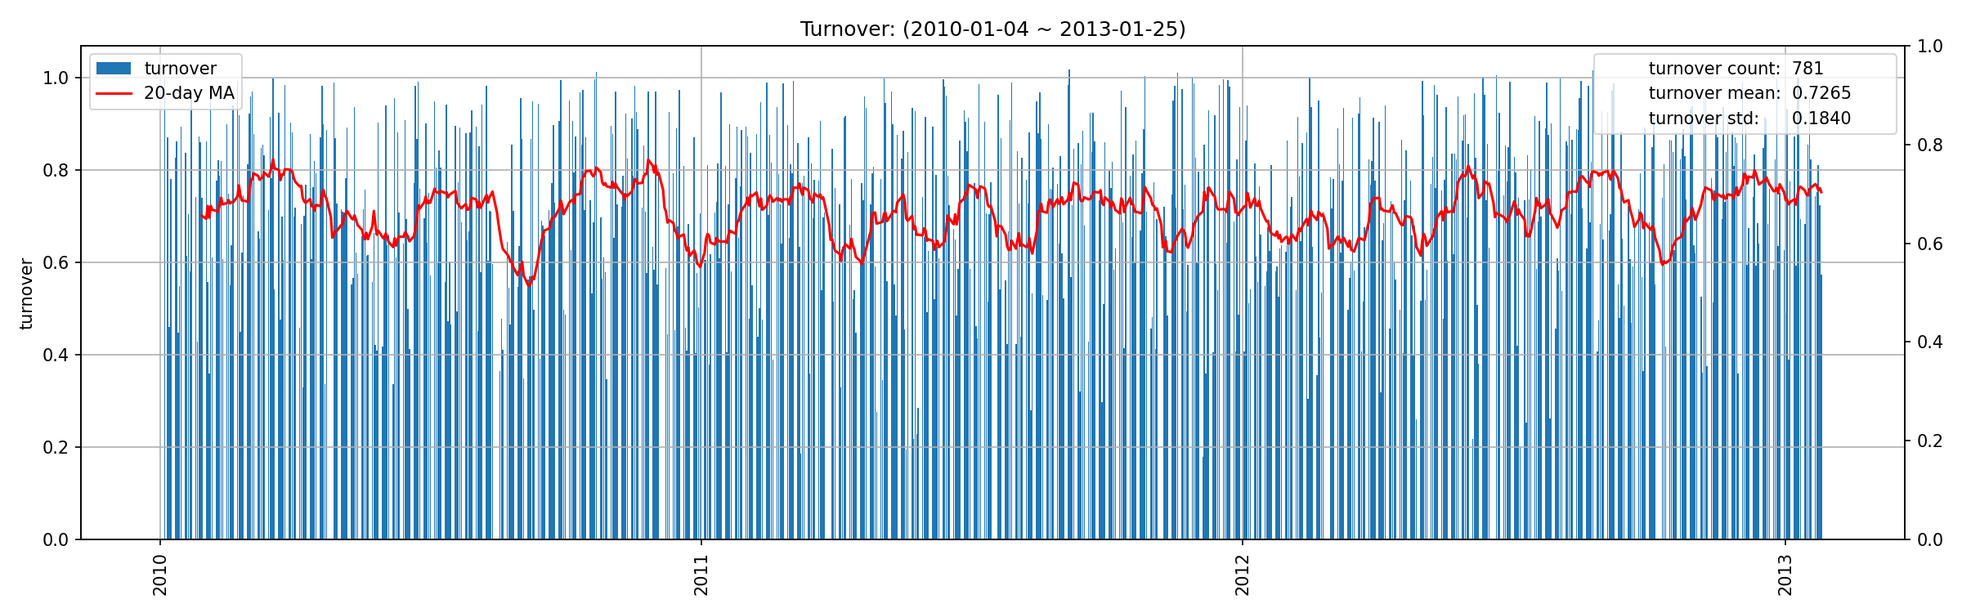
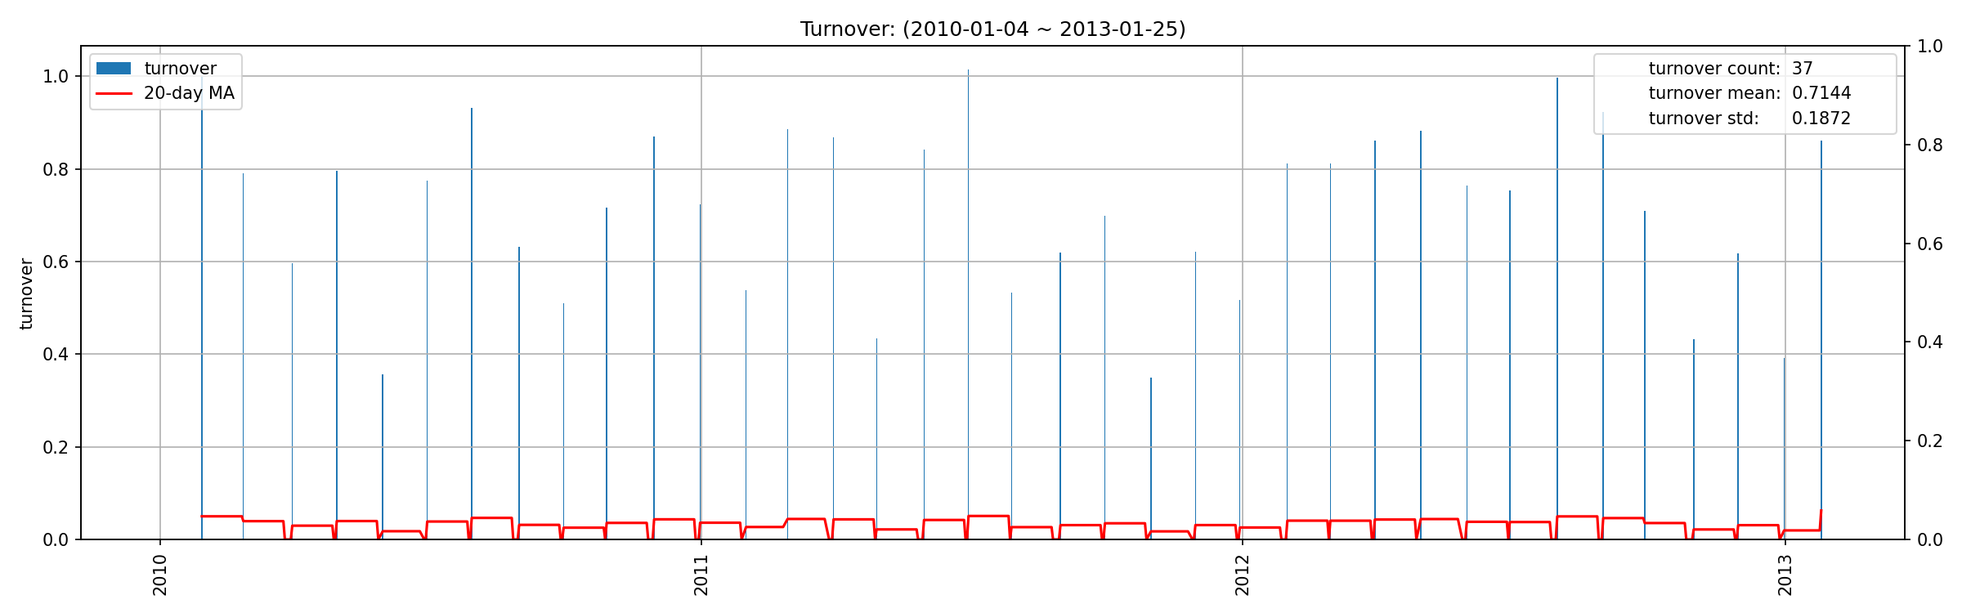
update

Changed region(s): [[0.0625, 0.092, 0.9375, 0.8893]]

diff --git a/demo/demo.py b/demo/demo.py
@@ -24,7 +24,7 @@ if __name__ == '__main__':
     trade_dates['year'] = trade_dates['datetime'].dt.year
     trade_dates['month'] = trade_dates['datetime'].dt.month
     position_dates = trade_dates.groupby(['year', 'month']).last()
-    position_dates = trade_dates['datetime'].tolist()
+    position_dates = position_dates['datetime'].tolist()
 
     # 需要计算的因子
     expression1 = '(ts_corr(rank(ts_delta(log(volume), 2)), rank(div(diff(close, open), open)), 6))'

diff --git a/factor_analysis_output/factor1_factor4/factor1_factor4_report.md b/factor_analysis_output/factor1_factor4/factor1_factor4_report.md
@@ -1,0 +1,100 @@
+# factor1_factor4 factor report
+## IC分析
+### 1D
+![IC分布](IC/factor1_factor4_1D.png)
+|         |   total |    2010 |   2011 |   2012 |    2013 |
+|:--------|--------:|--------:|-------:|-------:|--------:|
+| IC_mean |  0.0062 | -0.0005 | 0.0119 | 0.0104 | -0.0429 |
+| IC_std  |  0.3142 |  0.3152 | 0.3176 | 0.3101 |  0.3318 |
+| IC_IR   |  0.0196 | -0.0015 | 0.0375 | 0.0337 | -0.1293 |
+
+### 5D
+![IC分布](IC/factor1_factor4_5D.png)
+|         |   total |    2010 |   2011 |    2012 |    2013 |
+|:--------|--------:|--------:|-------:|--------:|--------:|
+| IC_mean | -0.0137 | -0.0189 | 0.0036 | -0.0239 | -0.0461 |
+| IC_std  |  0.3339 |  0.3275 | 0.3386 |  0.3303 |  0.4437 |
+| IC_IR   | -0.0410 | -0.0578 | 0.0106 | -0.0725 | -0.1040 |
+
+### 10D
+![IC分布](IC/factor1_factor4_10D.png)
+|         |   total |    2010 |    2011 |    2012 |    2013 |
+|:--------|--------:|--------:|--------:|--------:|--------:|
+| IC_mean | -0.0090 | -0.0160 | -0.0021 | -0.0068 | -0.0733 |
+| IC_std  |  0.3119 |  0.3175 |  0.2982 |  0.3209 |  0.3087 |
+| IC_IR   | -0.0289 | -0.0503 | -0.0070 | -0.0211 | -0.2374 |
+
+## 收益分析
+### 分层收益
+### 1D
+|               |   annual_return |   max_drawdown |   annual_sharpe |   annual_calmar |   win_rate |   avg_win_return |   avg_loss_return |   profit_loss_ratio |   annual_volatility |   annual_downside_deviation |   annual_sortino |
+|:--------------|----------------:|---------------:|----------------:|----------------:|-----------:|-----------------:|------------------:|--------------------:|--------------------:|----------------------------:|-----------------:|
+| group5(long)  |          0.1863 |         0.6694 |          0.6424 |          4.4167 |     0.5044 |           0.0432 |           -0.0391 |              1.1048 |              0.9476 |                      0.5832 |           1.0438 |
+| group1(short) |          0.1276 |         0.7279 |          0.5651 |          2.7828 |     0.4867 |           0.0435 |           -0.0373 |              1.1660 |              0.9024 |                      0.4670 |           1.0919 |
+| benchmark     |          0.0203 |         0.2899 |          0.6604 |          1.1093 |     0.4930 |           0.0708 |           -0.0622 |              1.1392 |              1.2968 |                      0.7104 |           1.2055 |
+| long_excess   |         -0.7608 |         0.9904 |         -0.1610 |        -12.1952 |     0.4930 |           0.0758 |           -0.0757 |              1.0019 |              1.5386 |                      0.9032 |          -0.2743 |
+| short_excess  |         -0.5865 |         0.9720 |          0.2255 |         -9.5776 |     0.5032 |           0.0763 |           -0.0745 |              1.0241 |              1.5370 |                      1.0249 |           0.3381 |
+| long_short    |         -0.5177 |         0.9781 |          0.0782 |         -8.4010 |     0.5070 |           0.0548 |           -0.0555 |              0.9864 |              1.2628 |                      0.9266 |           0.1066 |
+
+![分层净值](net_value/factor1_factor4_1D.png)
+### 5D
+|               |   annual_return |   max_drawdown |   annual_sharpe |   annual_calmar |   win_rate |   avg_win_return |   avg_loss_return |   profit_loss_ratio |   annual_volatility |   annual_downside_deviation |   annual_sortino |
+|:--------------|----------------:|---------------:|----------------:|----------------:|-----------:|-----------------:|------------------:|--------------------:|--------------------:|----------------------------:|-----------------:|
+| group5(long)  |          0.5599 |         0.3645 |          1.3134 |         24.3862 |     0.5248 |           0.0204 |           -0.0182 |              1.1233 |              0.3986 |                      0.2090 |           2.5046 |
+| group1(short) |          2.1524 |         0.2145 |          3.1164 |        159.2591 |     0.5618 |           0.0213 |           -0.0163 |              1.3132 |              0.3937 |                      0.1935 |           6.3425 |
+| benchmark     |          0.1389 |         0.1264 |          0.6206 |         17.4538 |     0.4879 |           0.0145 |           -0.0125 |              1.1570 |              0.2667 |                      0.1409 |           1.1748 |
+| long_excess   |          0.2870 |         0.4212 |          0.7758 |         10.8162 |     0.5159 |           0.0234 |           -0.0220 |              1.0632 |              0.4615 |                      0.2550 |           1.4041 |
+| short_excess  |         -0.6915 |         0.9768 |         -2.2616 |        -11.2378 |     0.4573 |           0.0205 |           -0.0251 |              0.8192 |              0.4694 |                      0.3383 |          -3.1380 |
+| long_short    |         -0.5735 |         0.9331 |         -1.2983 |         -9.7570 |     0.4752 |           0.0250 |           -0.0280 |              0.8944 |              0.5418 |                      0.3481 |          -2.0211 |
+
+![分层净值](net_value/factor1_factor4_5D.png)
+### 10D
+|               |   annual_return |   max_drawdown |   annual_sharpe |   annual_calmar |   win_rate |   avg_win_return |   avg_loss_return |   profit_loss_ratio |   annual_volatility |   annual_downside_deviation |   annual_sortino |
+|:--------------|----------------:|---------------:|----------------:|----------------:|-----------:|-----------------:|------------------:|--------------------:|--------------------:|----------------------------:|-----------------:|
+| group5(long)  |          0.2502 |         0.1926 |          1.0772 |         20.6246 |     0.5090 |           0.0119 |           -0.0103 |              1.1540 |              0.2323 |                      0.1339 |           1.8696 |
+| group1(short) |          0.8604 |         0.1408 |          2.7295 |         97.0250 |     0.5385 |           0.0127 |           -0.0092 |              1.3787 |              0.2380 |                      0.1206 |           5.3857 |
+| benchmark     |          0.0824 |         0.0940 |          0.6538 |         13.9123 |     0.4987 |           0.0074 |           -0.0066 |              1.1112 |              0.1350 |                      0.0720 |           1.2255 |
+| long_excess   |          0.1372 |         0.2158 |          0.6251 |         10.0875 |     0.5038 |           0.0132 |           -0.0121 |              1.0900 |              0.2592 |                      0.1489 |           1.0879 |
+| short_excess  |         -0.4494 |         0.8518 |         -2.1388 |         -8.3749 |     0.4705 |           0.0109 |           -0.0139 |              0.7847 |              0.2624 |                      0.2013 |          -2.7881 |
+| long_short    |         -0.3652 |         0.7582 |         -1.2080 |         -7.6468 |     0.4692 |           0.0148 |           -0.0160 |              0.9207 |              0.3305 |                      0.2367 |          -1.6868 |
+
+![分层净值](net_value/factor1_factor4_10D.png)
+### 因子加权日频收益
+|                 |   annual_return |   max_drawdown |   annual_sharpe |   annual_calmar |   win_rate |   avg_win_return |   avg_loss_return |   profit_loss_ratio |   annual_volatility |   annual_downside_deviation |   annual_sortino |
+|:----------------|----------------:|---------------:|----------------:|----------------:|-----------:|-----------------:|------------------:|--------------------:|--------------------:|----------------------------:|-----------------:|
+| factor_weighted |         -0.1665 |         0.5263 |         -0.0542 |         -5.0202 |     0.4962 |           0.0241 |           -0.0240 |              1.0052 |              0.5550 |                      0.3714 |          -0.0810 |
+| benchmark       |         -0.0041 |         0.1815 |          0.6409 |         -0.3591 |     0.4944 |           0.0704 |           -0.0623 |              1.1297 |              1.2946 |                      0.7106 |           1.1677 |
+| excess          |         -0.8523 |         0.9978 |         -0.5994 |        -13.5592 |     0.4856 |           0.0712 |           -0.0739 |              0.9642 |              1.4346 |                      0.8826 |          -0.9742 |
+
+![因子加权净值](net_value/factor1_factor4_factor_weighted.png)
+### 分位数(0.8, 1.0)收益
+|           |   annual_return |   max_drawdown |   annual_sharpe |   annual_calmar |   win_rate |   avg_win_return |   avg_loss_return |   profit_loss_ratio |   annual_volatility |   annual_downside_deviation |   annual_sortino |
+|:----------|----------------:|---------------:|----------------:|----------------:|-----------:|-----------------:|------------------:|--------------------:|--------------------:|----------------------------:|-----------------:|
+| quantile  |          1.1123 |         0.3298 |          1.3235 |         53.5382 |     0.5090 |           0.0376 |           -0.0304 |              1.2390 |              0.7871 |                      0.3965 |           2.6273 |
+| benchmark |         -0.0041 |         0.1815 |          0.6409 |         -0.3591 |     0.4944 |           0.0704 |           -0.0623 |              1.1297 |              1.2946 |                      0.7106 |           1.1677 |
+| excess    |         -0.5993 |         0.9585 |          0.1423 |         -9.9262 |     0.5144 |           0.0728 |           -0.0754 |              0.9659 |              1.4987 |                      0.8914 |           0.2393 |
+
+![分位数净值(0.8, 1.0)](net_value/factor1_factor4_quantile.png)
+## 换手率分析
+### 分层换手率
+![分层换手率分布](turnover/factor1_factor4_group.png)
+|         |   turnover_count |   turnover_mean |   turnover_std |
+|:--------|-----------------:|----------------:|---------------:|
+| group_1 |         774.0000 |          0.8243 |         0.2389 |
+| group_2 |         760.0000 |          0.8197 |         0.2402 |
+| group_3 |         769.0000 |          0.8251 |         0.2386 |
+| group_4 |         768.0000 |          0.8079 |         0.2434 |
+| group_5 |         775.0000 |          0.8252 |         0.2386 |
+
+### 因子加权持仓换手率
+![因子加权持仓换手率](turnover/factor1_factor4_factor_weighted.png)
+|    |   turnover_count |   turnover_mean |   turnover_std |
+|---:|-----------------:|----------------:|---------------:|
+|  0 |          37.0000 |          0.7459 |         0.1505 |
+
+### 分位数(0.8, 1.0)换手率
+![分位数换手率 (0.8, 1.0)](turnover/factor1_factor4_quantile.png)
+|    |   turnover_count |   turnover_mean |   turnover_std |
+|---:|-----------------:|----------------:|---------------:|
+|  0 |          37.0000 |          0.7867 |         0.2122 |
+

diff --git a/factor_analysis_output/factor1/factor1_report.md b/factor_analysis_output/factor1/factor1_report.md
@@ -62,17 +62,17 @@
 ### 因子加权日频收益
 |                 |   annual_return |   max_drawdown |   annual_sharpe |   annual_calmar |   win_rate |   avg_win_return |   avg_loss_return |   profit_loss_ratio |   annual_volatility |   annual_downside_deviation |   annual_sortino |
 |:----------------|----------------:|---------------:|----------------:|----------------:|-----------:|-----------------:|------------------:|--------------------:|--------------------:|----------------------------:|-----------------:|
-| factor_weighted |         -0.2130 |         0.6069 |         -0.2492 |         -5.5710 |     0.4900 |           0.0216 |           -0.0217 |              0.9955 |              0.4858 |                      0.3427 |          -0.3532 |
+| factor_weighted |         -0.2576 |         0.7249 |         -0.3624 |         -5.6421 |     0.4859 |           0.0217 |           -0.0220 |              0.9906 |              0.4877 |                      0.3751 |          -0.4712 |
 | benchmark       |         -0.0041 |         0.1815 |          0.6409 |         -0.3591 |     0.4944 |           0.0704 |           -0.0623 |              1.1297 |              1.2946 |                      0.7106 |           1.1677 |
-| excess          |         -0.8499 |         0.9980 |         -0.6983 |        -13.5178 |     0.4869 |           0.0674 |           -0.0713 |              0.9453 |              1.3617 |                      0.8201 |          -1.1596 |
+| excess          |         -0.8758 |         0.9989 |         -0.6947 |        -13.9183 |     0.4894 |           0.0714 |           -0.0762 |              0.9364 |              1.4491 |                      0.8998 |          -1.1188 |
 
 ![因子加权净值](net_value/factor1_factor_weighted.png)
 ### 分位数(0.8, 1.0)收益
 |           |   annual_return |   max_drawdown |   annual_sharpe |   annual_calmar |   win_rate |   avg_win_return |   avg_loss_return |   profit_loss_ratio |   annual_volatility |   annual_downside_deviation |   annual_sortino |
 |:----------|----------------:|---------------:|----------------:|----------------:|-----------:|-----------------:|------------------:|--------------------:|--------------------:|----------------------------:|-----------------:|
-| quantile  |          0.6076 |         0.4149 |          0.9879 |         23.2494 |     0.4791 |           0.0384 |           -0.0295 |              1.3025 |              0.7648 |                      0.3873 |           1.9508 |
+| quantile  |          0.3273 |         0.4777 |          0.7447 |         10.8771 |     0.5013 |           0.0358 |           -0.0314 |              1.1392 |              0.7493 |                      0.4544 |           1.2281 |
 | benchmark |         -0.0041 |         0.1815 |          0.6409 |         -0.3591 |     0.4944 |           0.0704 |           -0.0623 |              1.1297 |              1.2946 |                      0.7106 |           1.1677 |
-| excess    |         -0.6678 |         0.9799 |         -0.0510 |        -10.8182 |     0.4931 |           0.0719 |           -0.0705 |              1.0196 |              1.4351 |                      0.8435 |          -0.0868 |
+| excess    |         -0.7497 |         0.9912 |         -0.1823 |        -12.0070 |     0.4806 |           0.0757 |           -0.0721 |              1.0497 |              1.4871 |                      0.8908 |          -0.3042 |
 
 ![分位数净值(0.8, 1.0)](net_value/factor1_quantile.png)
 ## 换手率分析
@@ -90,11 +90,11 @@
 ![因子加权持仓换手率](turnover/factor1_factor_weighted.png)
 |    |   turnover_count |   turnover_mean |   turnover_std |
 |---:|-----------------:|----------------:|---------------:|
-|  0 |         781.0000 |          0.7265 |         0.1840 |
+|  0 |          37.0000 |          0.7144 |         0.1872 |
 
 ### 分位数(0.8, 1.0)换手率
 ![分位数换手率 (0.8, 1.0)](turnover/factor1_quantile.png)
 |    |   turnover_count |   turnover_mean |   turnover_std |
 |---:|-----------------:|----------------:|---------------:|
-|  0 |         789.0000 |             inf |            nan |
+|  0 |          36.0000 |          0.7676 |         0.2569 |
 

diff --git a/factor_analysis_output/factor2/factor2_report.md b/factor_analysis_output/factor2/factor2_report.md
@@ -62,17 +62,17 @@
 ### 因子加权日频收益
 |                 |   annual_return |   max_drawdown |   annual_sharpe |   annual_calmar |   win_rate |   avg_win_return |   avg_loss_return |   profit_loss_ratio |   annual_volatility |   annual_downside_deviation |   annual_sortino |
 |:----------------|----------------:|---------------:|----------------:|----------------:|-----------:|-----------------:|------------------:|--------------------:|--------------------:|----------------------------:|-----------------:|
-| factor_weighted |          0.0028 |         0.5951 |          0.2492 |          0.0747 |     0.5100 |           0.0217 |           -0.0216 |              1.0045 |              0.4858 |                      0.3471 |           0.3488 |
+| factor_weighted |          0.0609 |         0.5443 |          0.3624 |          1.7755 |     0.5141 |           0.0220 |           -0.0217 |              1.0095 |              0.4877 |                      0.3254 |           0.5432 |
 | benchmark       |         -0.0041 |         0.1815 |          0.6409 |         -0.3591 |     0.4944 |           0.0704 |           -0.0623 |              1.1297 |              1.2946 |                      0.7106 |           1.1677 |
-| excess          |         -0.8200 |         0.9961 |         -0.5047 |        -13.0693 |     0.5019 |           0.0685 |           -0.0746 |              0.9174 |              1.4037 |                      0.8551 |          -0.8286 |
+| excess          |         -0.7834 |         0.9929 |         -0.4965 |        -12.5247 |     0.4881 |           0.0661 |           -0.0681 |              0.9707 |              1.3148 |                      0.7868 |          -0.8297 |
 
 ![因子加权净值](net_value/factor2_factor_weighted.png)
 ### 分位数(0.8, 1.0)收益
 |           |   annual_return |   max_drawdown |   annual_sharpe |   annual_calmar |   win_rate |   avg_win_return |   avg_loss_return |   profit_loss_ratio |   annual_volatility |   annual_downside_deviation |   annual_sortino |
 |:----------|----------------:|---------------:|----------------:|----------------:|-----------:|-----------------:|------------------:|--------------------:|--------------------:|----------------------------:|-----------------:|
-| quantile  |          1.0202 |         0.4720 |          1.2687 |         34.3138 |     0.5146 |           0.0371 |           -0.0310 |              1.1967 |              0.7914 |                      0.4500 |           2.2310 |
+| quantile  |          0.8255 |         0.5511 |          1.1460 |         23.7775 |     0.5256 |           0.0359 |           -0.0322 |              1.1159 |              0.7749 |                      0.3979 |           2.2317 |
 | benchmark |         -0.0041 |         0.1815 |          0.6409 |         -0.3591 |     0.4944 |           0.0704 |           -0.0623 |              1.1297 |              1.2946 |                      0.7106 |           1.1677 |
-| excess    |         -0.5922 |         0.9692 |          0.1202 |         -9.7006 |     0.5019 |           0.0735 |           -0.0727 |              1.0116 |              1.4604 |                      0.8647 |           0.2030 |
+| excess    |         -0.6241 |         0.9647 |          0.0410 |        -10.2703 |     0.4844 |           0.0745 |           -0.0695 |              1.0716 |              1.4479 |                      0.8074 |           0.0735 |
 
 ![分位数净值(0.8, 1.0)](net_value/factor2_quantile.png)
 ## 换手率分析
@@ -90,11 +90,11 @@
 ![因子加权持仓换手率](turnover/factor2_factor_weighted.png)
 |    |   turnover_count |   turnover_mean |   turnover_std |
 |---:|-----------------:|----------------:|---------------:|
-|  0 |         781.0000 |          0.7265 |         0.1840 |
+|  0 |          37.0000 |          0.7144 |         0.1872 |
 
 ### 分位数(0.8, 1.0)换手率
 ![分位数换手率 (0.8, 1.0)](turnover/factor2_quantile.png)
 |    |   turnover_count |   turnover_mean |   turnover_std |
 |---:|-----------------:|----------------:|---------------:|
-|  0 |         786.0000 |             inf |            nan |
+|  0 |          37.0000 |          0.7281 |         0.2323 |
 

diff --git a/factor_analysis_output/factor3/factor3_report.md b/factor_analysis_output/factor3/factor3_report.md
@@ -62,17 +62,17 @@
 ### 因子加权日频收益
 |                 |   annual_return |   max_drawdown |   annual_sharpe |   annual_calmar |   win_rate |   avg_win_return |   avg_loss_return |   profit_loss_ratio |   annual_volatility |   annual_downside_deviation |   annual_sortino |
 |:----------------|----------------:|---------------:|----------------:|----------------:|-----------:|-----------------:|------------------:|--------------------:|--------------------:|----------------------------:|-----------------:|
-| factor_weighted |         -0.3161 |         0.7660 |         -0.5458 |         -6.5509 |     0.4799 |           0.0213 |           -0.0217 |              0.9831 |              0.4815 |                      0.3518 |          -0.7471 |
+| factor_weighted |         -0.2538 |         0.7042 |         -0.3268 |         -5.7214 |     0.4910 |           0.0220 |           -0.0226 |              0.9760 |              0.5048 |                      0.3672 |          -0.4493 |
 | benchmark       |         -0.0041 |         0.1815 |          0.6409 |         -0.3591 |     0.4944 |           0.0704 |           -0.0623 |              1.1297 |              1.2946 |                      0.7106 |           1.1677 |
-| excess          |         -0.8706 |         0.9987 |         -0.8013 |        -13.8383 |     0.4856 |           0.0669 |           -0.0715 |              0.9345 |              1.3639 |                      0.8376 |          -1.3047 |
+| excess          |         -0.8721 |         0.9988 |         -0.6913 |        -13.8608 |     0.4869 |           0.0711 |           -0.0752 |              0.9461 |              1.4391 |                      0.8907 |          -1.1170 |
 
 ![因子加权净值](net_value/factor3_factor_weighted.png)
 ### 分位数(0.8, 1.0)收益
 |           |   annual_return |   max_drawdown |   annual_sharpe |   annual_calmar |   win_rate |   avg_win_return |   avg_loss_return |   profit_loss_ratio |   annual_volatility |   annual_downside_deviation |   annual_sortino |
 |:----------|----------------:|---------------:|----------------:|----------------:|-----------:|-----------------:|------------------:|--------------------:|--------------------:|----------------------------:|-----------------:|
-| quantile  |         -0.0794 |         0.6001 |          0.2155 |         -2.1000 |     0.4702 |           0.0348 |           -0.0297 |              1.1697 |              0.6944 |                      0.3524 |           0.4247 |
+| quantile  |          0.4335 |         0.4119 |          0.8370 |         16.7040 |     0.4910 |           0.0383 |           -0.0317 |              1.2084 |              0.7846 |                      0.4306 |           1.5249 |
 | benchmark |         -0.0041 |         0.1815 |          0.6409 |         -0.3591 |     0.4944 |           0.0704 |           -0.0623 |              1.1297 |              1.2946 |                      0.7106 |           1.1677 |
-| excess    |         -0.8136 |         0.9968 |         -0.4811 |        -12.9566 |     0.4856 |           0.0705 |           -0.0718 |              0.9819 |              1.4132 |                      0.8093 |          -0.8401 |
+| excess    |         -0.7136 |         0.9864 |         -0.1173 |        -11.4845 |     0.4768 |           0.0758 |           -0.0704 |              1.0767 |              1.4684 |                      0.8624 |          -0.1997 |
 
 ![分位数净值(0.8, 1.0)](net_value/factor3_quantile.png)
 ## 换手率分析
@@ -90,11 +90,11 @@
 ![因子加权持仓换手率](turnover/factor3_factor_weighted.png)
 |    |   turnover_count |   turnover_mean |   turnover_std |
 |---:|-----------------:|----------------:|---------------:|
-|  0 |         781.0000 |          0.7185 |         0.1778 |
+|  0 |          37.0000 |          0.7198 |         0.1830 |
 
 ### 分位数(0.8, 1.0)换手率
 ![分位数换手率 (0.8, 1.0)](turnover/factor3_quantile.png)
 |    |   turnover_count |   turnover_mean |   turnover_std |
 |---:|-----------------:|----------------:|---------------:|
-|  0 |         791.0000 |             inf |            nan |
+|  0 |          37.0000 |          0.7023 |         0.2623 |
 

diff --git a/factor_analysis_output/factor4/factor4_report.md b/factor_analysis_output/factor4/factor4_report.md
@@ -62,17 +62,17 @@
 ### 因子加权日频收益
 |                 |   annual_return |   max_drawdown |   annual_sharpe |   annual_calmar |   win_rate |   avg_win_return |   avg_loss_return |   profit_loss_ratio |   annual_volatility |   annual_downside_deviation |   annual_sortino |
 |:----------------|----------------:|---------------:|----------------:|----------------:|-----------:|-----------------:|------------------:|--------------------:|--------------------:|----------------------------:|-----------------:|
-| factor_weighted |          0.1584 |         0.4106 |          0.5458 |          6.1230 |     0.5201 |           0.0217 |           -0.0213 |              1.0172 |              0.4815 |                      0.3288 |           0.7993 |
+| factor_weighted |          0.0374 |         0.5292 |          0.3268 |          1.1221 |     0.5090 |           0.0226 |           -0.0220 |              1.0246 |              0.5048 |                      0.3704 |           0.4454 |
 | benchmark       |         -0.0041 |         0.1815 |          0.6409 |         -0.3591 |     0.4944 |           0.0704 |           -0.0623 |              1.1297 |              1.2946 |                      0.7106 |           1.1677 |
-| excess          |         -0.7905 |         0.9938 |         -0.4051 |        -12.6264 |     0.5031 |           0.0686 |           -0.0739 |              0.9271 |              1.3987 |                      0.8480 |          -0.6682 |
+| excess          |         -0.7933 |         0.9936 |         -0.4965 |        -12.6753 |     0.5006 |           0.0654 |           -0.0709 |              0.9232 |              1.3385 |                      0.8112 |          -0.8192 |
 
 ![因子加权净值](net_value/factor4_factor_weighted.png)
 ### 分位数(0.8, 1.0)收益
 |           |   annual_return |   max_drawdown |   annual_sharpe |   annual_calmar |   win_rate |   avg_win_return |   avg_loss_return |   profit_loss_ratio |   annual_volatility |   annual_downside_deviation |   annual_sortino |
 |:----------|----------------:|---------------:|----------------:|----------------:|-----------:|-----------------:|------------------:|--------------------:|--------------------:|----------------------------:|-----------------:|
-| quantile  |          1.6182 |         0.3351 |          1.5935 |         76.6600 |     0.5095 |           0.0380 |           -0.0291 |              1.3058 |              0.7929 |                      0.4389 |           2.8786 |
+| quantile  |          0.6600 |         0.4809 |          1.0127 |         21.7868 |     0.4974 |           0.0379 |           -0.0309 |              1.2265 |              0.8055 |                      0.4272 |           1.9093 |
 | benchmark |         -0.0041 |         0.1815 |          0.6409 |         -0.3591 |     0.4944 |           0.0704 |           -0.0623 |              1.1297 |              1.2946 |                      0.7106 |           1.1677 |
-| excess    |         -0.4809 |         0.9142 |          0.2947 |         -8.3502 |     0.5119 |           0.0736 |           -0.0737 |              0.9993 |              1.4774 |                      0.8600 |           0.5062 |
+| excess    |         -0.6555 |         0.9711 |         -0.0089 |        -10.7154 |     0.4931 |           0.0731 |           -0.0712 |              1.0265 |              1.4531 |                      0.8341 |          -0.0156 |
 
 ![分位数净值(0.8, 1.0)](net_value/factor4_quantile.png)
 ## 换手率分析
@@ -90,11 +90,11 @@
 ![因子加权持仓换手率](turnover/factor4_factor_weighted.png)
 |    |   turnover_count |   turnover_mean |   turnover_std |
 |---:|-----------------:|----------------:|---------------:|
-|  0 |         781.0000 |          0.7185 |         0.1778 |
+|  0 |          37.0000 |          0.7198 |         0.1830 |
 
 ### 分位数(0.8, 1.0)换手率
 ![分位数换手率 (0.8, 1.0)](turnover/factor4_quantile.png)
 |    |   turnover_count |   turnover_mean |   turnover_std |
 |---:|-----------------:|----------------:|---------------:|
-|  0 |         794.0000 |             inf |            nan |
+|  0 |          37.0000 |          0.7725 |         0.2634 |
 

diff --git a/factor_analysis_output/factor5/factor5_report.md b/factor_analysis_output/factor5/factor5_report.md
@@ -62,17 +62,17 @@
 ### 因子加权日频收益
 |                 |   annual_return |   max_drawdown |   annual_sharpe |   annual_calmar |   win_rate |   avg_win_return |   avg_loss_return |   profit_loss_ratio |   annual_volatility |   annual_downside_deviation |   annual_sortino |
 |:----------------|----------------:|---------------:|----------------:|----------------:|-----------:|-----------------:|------------------:|--------------------:|--------------------:|----------------------------:|-----------------:|
-| factor_weighted |         -0.2130 |         0.6069 |         -0.2492 |         -5.5710 |     0.4900 |           0.0216 |           -0.0217 |              0.9955 |              0.4858 |                      0.3427 |          -0.3532 |
+| factor_weighted |         -0.2576 |         0.7249 |         -0.3624 |         -5.6421 |     0.4859 |           0.0217 |           -0.0220 |              0.9906 |              0.4877 |                      0.3751 |          -0.4712 |
 | benchmark       |         -0.0041 |         0.1815 |          0.6409 |         -0.3591 |     0.4944 |           0.0704 |           -0.0623 |              1.1297 |              1.2946 |                      0.7106 |           1.1677 |
-| excess          |         -0.8499 |         0.9980 |         -0.6983 |        -13.5178 |     0.4869 |           0.0674 |           -0.0713 |              0.9453 |              1.3617 |                      0.8201 |          -1.1596 |
+| excess          |         -0.8758 |         0.9989 |         -0.6947 |        -13.9183 |     0.4894 |           0.0714 |           -0.0762 |              0.9364 |              1.4491 |                      0.8998 |          -1.1188 |
 
 ![因子加权净值](net_value/factor5_factor_weighted.png)
 ### 分位数(0.8, 1.0)收益
 |           |   annual_return |   max_drawdown |   annual_sharpe |   annual_calmar |   win_rate |   avg_win_return |   avg_loss_return |   profit_loss_ratio |   annual_volatility |   annual_downside_deviation |   annual_sortino |
 |:----------|----------------:|---------------:|----------------:|----------------:|-----------:|-----------------:|------------------:|--------------------:|--------------------:|----------------------------:|-----------------:|
-| quantile  |          0.6076 |         0.4149 |          0.9879 |         23.2494 |     0.4791 |           0.0384 |           -0.0295 |              1.3025 |              0.7648 |                      0.3873 |           1.9508 |
+| quantile  |          0.3273 |         0.4777 |          0.7447 |         10.8771 |     0.5013 |           0.0358 |           -0.0314 |              1.1392 |              0.7493 |                      0.4544 |           1.2281 |
 | benchmark |         -0.0041 |         0.1815 |          0.6409 |         -0.3591 |     0.4944 |           0.0704 |           -0.0623 |              1.1297 |              1.2946 |                      0.7106 |           1.1677 |
-| excess    |         -0.6678 |         0.9799 |         -0.0510 |        -10.8182 |     0.4931 |           0.0719 |           -0.0705 |              1.0196 |              1.4351 |                      0.8435 |          -0.0868 |
+| excess    |         -0.7497 |         0.9912 |         -0.1823 |        -12.0070 |     0.4806 |           0.0757 |           -0.0721 |              1.0497 |              1.4871 |                      0.8908 |          -0.3042 |
 
 ![分位数净值(0.8, 1.0)](net_value/factor5_quantile.png)
 ## 换手率分析
@@ -90,11 +90,11 @@
 ![因子加权持仓换手率](turnover/factor5_factor_weighted.png)
 |    |   turnover_count |   turnover_mean |   turnover_std |
 |---:|-----------------:|----------------:|---------------:|
-|  0 |         781.0000 |          0.7265 |         0.1840 |
+|  0 |          37.0000 |          0.7144 |         0.1872 |
 
 ### 分位数(0.8, 1.0)换手率
 ![分位数换手率 (0.8, 1.0)](turnover/factor5_quantile.png)
 |    |   turnover_count |   turnover_mean |   turnover_std |
 |---:|-----------------:|----------------:|---------------:|
-|  0 |         789.0000 |             inf |            nan |
+|  0 |          36.0000 |          0.7676 |         0.2569 |
 

diff --git a/factor_analysis_output/factor6/factor6_report.md b/factor_analysis_output/factor6/factor6_report.md
@@ -62,17 +62,17 @@
 ### 因子加权日频收益
 |                 |   annual_return |   max_drawdown |   annual_sharpe |   annual_calmar |   win_rate |   avg_win_return |   avg_loss_return |   profit_loss_ratio |   annual_volatility |   annual_downside_deviation |   annual_sortino |
 |:----------------|----------------:|---------------:|----------------:|----------------:|-----------:|-----------------:|------------------:|--------------------:|--------------------:|----------------------------:|-----------------:|
-| factor_weighted |          0.0028 |         0.5951 |          0.2492 |          0.0747 |     0.5100 |           0.0217 |           -0.0216 |              1.0045 |              0.4858 |                      0.3471 |           0.3488 |
+| factor_weighted |          0.0609 |         0.5443 |          0.3624 |          1.7755 |     0.5141 |           0.0220 |           -0.0217 |              1.0095 |              0.4877 |                      0.3254 |           0.5432 |
 | benchmark       |         -0.0041 |         0.1815 |          0.6409 |         -0.3591 |     0.4944 |           0.0704 |           -0.0623 |              1.1297 |              1.2946 |                      0.7106 |           1.1677 |
-| excess          |         -0.8200 |         0.9961 |         -0.5047 |        -13.0693 |     0.5019 |           0.0685 |           -0.0746 |              0.9174 |              1.4037 |                      0.8551 |          -0.8286 |
+| excess          |         -0.7834 |         0.9929 |         -0.4965 |        -12.5247 |     0.4881 |           0.0661 |           -0.0681 |              0.9707 |              1.3148 |                      0.7868 |          -0.8297 |
 
 ![因子加权净值](net_value/factor6_factor_weighted.png)
 ### 分位数(0.8, 1.0)收益
 |           |   annual_return |   max_drawdown |   annual_sharpe |   annual_calmar |   win_rate |   avg_win_return |   avg_loss_return |   profit_loss_ratio |   annual_volatility |   annual_downside_deviation |   annual_sortino |
 |:----------|----------------:|---------------:|----------------:|----------------:|-----------:|-----------------:|------------------:|--------------------:|--------------------:|----------------------------:|-----------------:|
-| quantile  |          1.0202 |         0.4720 |          1.2687 |         34.3138 |     0.5146 |           0.0371 |           -0.0310 |              1.1967 |              0.7914 |                      0.4500 |           2.2310 |
+| quantile  |          0.8255 |         0.5511 |          1.1460 |         23.7775 |     0.5256 |           0.0359 |           -0.0322 |              1.1159 |              0.7749 |                      0.3979 |           2.2317 |
 | benchmark |         -0.0041 |         0.1815 |          0.6409 |         -0.3591 |     0.4944 |           0.0704 |           -0.0623 |              1.1297 |              1.2946 |                      0.7106 |           1.1677 |
-| excess    |         -0.5922 |         0.9692 |          0.1202 |         -9.7006 |     0.5019 |           0.0735 |           -0.0727 |              1.0116 |              1.4604 |                      0.8647 |           0.2030 |
+| excess    |         -0.6241 |         0.9647 |          0.0410 |        -10.2703 |     0.4844 |           0.0745 |           -0.0695 |              1.0716 |              1.4479 |                      0.8074 |           0.0735 |
 
 ![分位数净值(0.8, 1.0)](net_value/factor6_quantile.png)
 ## 换手率分析
@@ -90,11 +90,11 @@
 ![因子加权持仓换手率](turnover/factor6_factor_weighted.png)
 |    |   turnover_count |   turnover_mean |   turnover_std |
 |---:|-----------------:|----------------:|---------------:|
-|  0 |         781.0000 |          0.7265 |         0.1840 |
+|  0 |          37.0000 |          0.7144 |         0.1872 |
 
 ### 分位数(0.8, 1.0)换手率
 ![分位数换手率 (0.8, 1.0)](turnover/factor6_quantile.png)
 |    |   turnover_count |   turnover_mean |   turnover_std |
 |---:|-----------------:|----------------:|---------------:|
-|  0 |         786.0000 |             inf |            nan |
+|  0 |          37.0000 |          0.7281 |         0.2323 |
 
